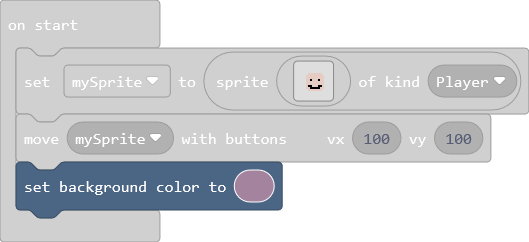
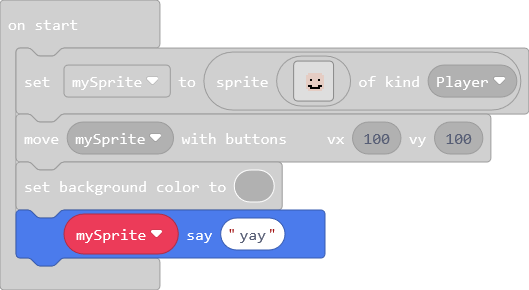
add say block

diff --git a/main.ts b/main.ts
@@ -18,3 +18,4 @@ let mySprite = sprites.create(img`
 `, SpriteKind.Player)
 controller.moveSprite(mySprite, 100, 100)
 scene.setBackgroundColor(11)
+mySprite.say("yay")
